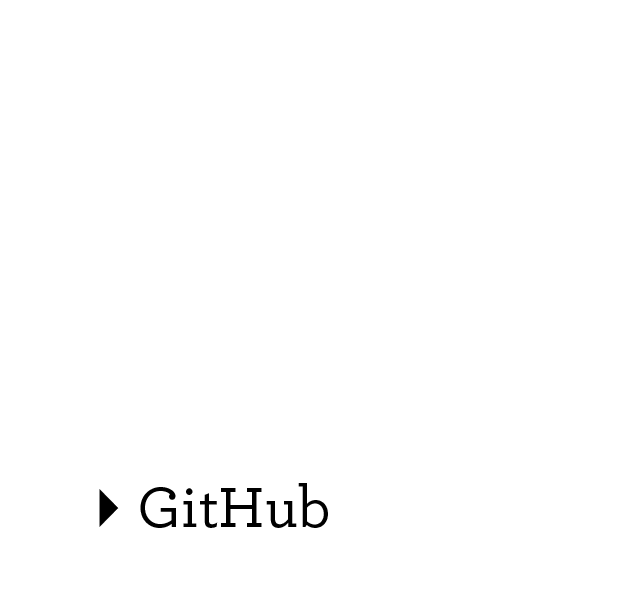
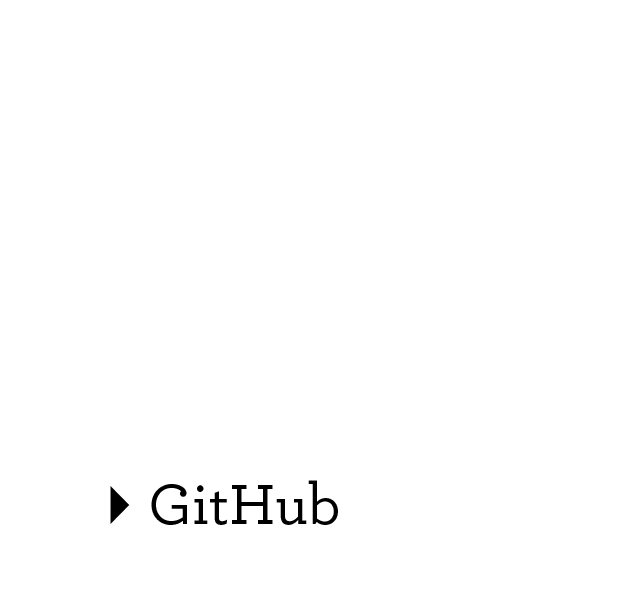
Changed style a bit

Changed region(s): [[0.153, 0.7932, 0.5507, 0.9153]]

diff --git a/index.html b/index.html
@@ -20,19 +20,19 @@
         <!-- <h1 class="header">SADDLE: Scala Data Library</h1> -->
         <img src="images/logo.png" alt="Logo" width=200 />
         <map name="buttonmap">
-          <AREA SHAPE="rect" ALT="User Guide" COORDS="0,0,150,45" HREF="doc/index.html" onMouseOver="OneOn()" onMouseOut="AllOff()">
-          <AREA SHAPE="rect" ALT="Documentation" COORDS="0,50,150,95" HREF="" onMouseOver="TwoOn()" onMouseOut="AllOff()">
+          <AREA SHAPE="rect" ALT="Documentation" COORDS="0,0,150,45" HREF="doc/index.html" onMouseOver="OneOn()" onMouseOut="AllOff()">
+          <AREA SHAPE="rect" ALT="Scala API" COORDS="0,50,150,95" HREF="" onMouseOver="TwoOn()" onMouseOut="AllOff()">
           <AREA SHAPE="rect" ALT="GitHub" COORDS="0,100,150,145" HREF="http://github.com/saddle/saddle" onMouseOver="ThreeOn()" onMouseOut="AllOff()">
         </map>
         <img src="images/map.png" name="Buttons" alt="Buttons" width=150 style="padding: 30px 0 0 22px" usemap="#buttonmap" />
       </header>
       <section>
         <h3>Welcome to Saddle</h3>
-        <p> Saddle is a high-performance data manipulation library for Scala that provides 
-        array-backed, indexed, 1D and 2D data structures.</p>
+        <p> Saddle is a high-performance data manipulation library for Scala.</p>
 
-        <p>Saddle offers vectorized numerical calculations, automatic alignment of data along 
-        indices, robustness to missing (N/A) values, and facilities for I/O.</p>
+        <p>Saddle provides array-backed, indexed, one- and two-dimensional data structures, 
+        vectorized numerical calculations, automatic alignment of data along indices, and 
+        robustness to missing (N/A) values.</p>
 
         <p>Saddle draws inspiration from several sources, among them the R programming language 
         & statistical environment, the numpy and pandas Python libraries, and the Scala collections 
@@ -56,10 +56,10 @@
         document.write(unescape("%3Cscript src='" + gaJsHost + "google-analytics.com/ga.js' type='text/javascript'%3E%3C/script%3E"));
     </script>
     <script type="text/javascript">
-        try {
-            var pageTracker = _gat._getTracker("UA-39119852-1");
-            pageTracker._trackPageview();
-        } catch(err) {}
+      try {
+          var pageTracker = _gat._getTracker("UA-39119852-1");
+          pageTracker._trackPageview();
+      } catch(err) {}
     </script>
   </body>
 </html>

diff --git a/javascripts/rollover.js b/javascripts/rollover.js
@@ -4,10 +4,10 @@ Rollimage[0] = new Image()
 Rollimage[0].src = "images/map.png"
 
 Rollimage[1] = new Image()
-Rollimage[1].src = "images/userguide_over.png"
+Rollimage[1].src = "images/documentation_over.png"
 
 Rollimage[2] = new Image()
-Rollimage[2].src = "images/documentation_over.png"
+Rollimage[2].src = "images/scala_over.png"
 
 Rollimage[3] = new Image()
 Rollimage[3].src = "images/github_over.png"

diff --git a/stylesheets/styles.css b/stylesheets/styles.css
@@ -203,15 +203,15 @@ td {
 /* Header */
 
 header {
+  background-image: url(../images/dark_bk.png);
+  background-repeat:repeat-y;
   background-color: #171717;
   color: #FDFDFB;
   position:fixed;
   width:200px;
   height:1000px;
   float:left;
-  border: 1px solid #000;
-  padding: 35px 25px 20px 20px;
-  -webkit-font-smoothing: antialiased;
+  padding: 15px 25px 0 20px;
 }
 
 p.header {
